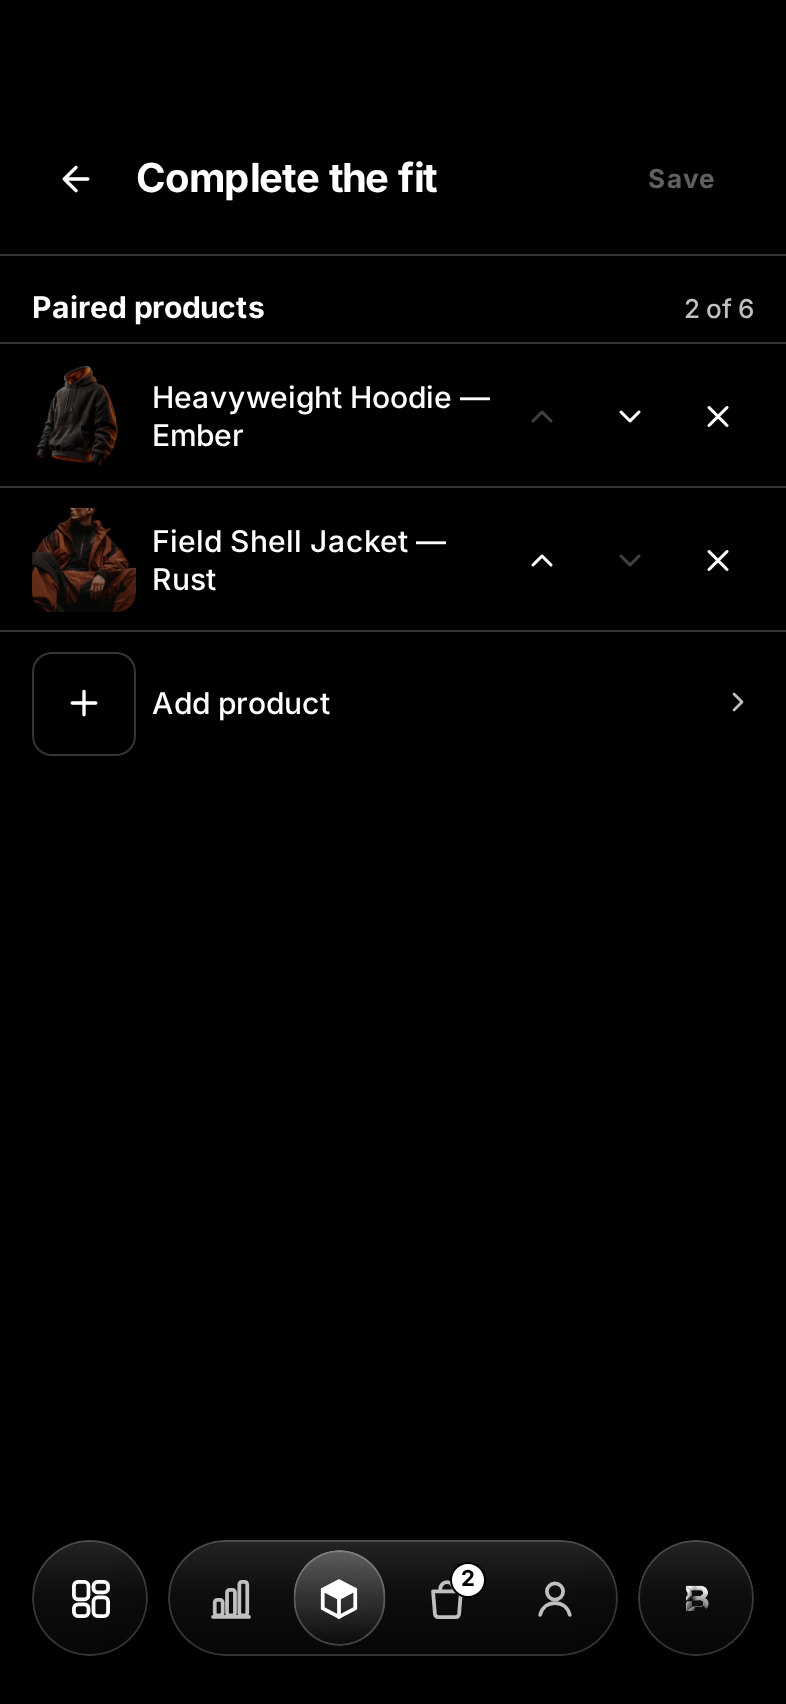
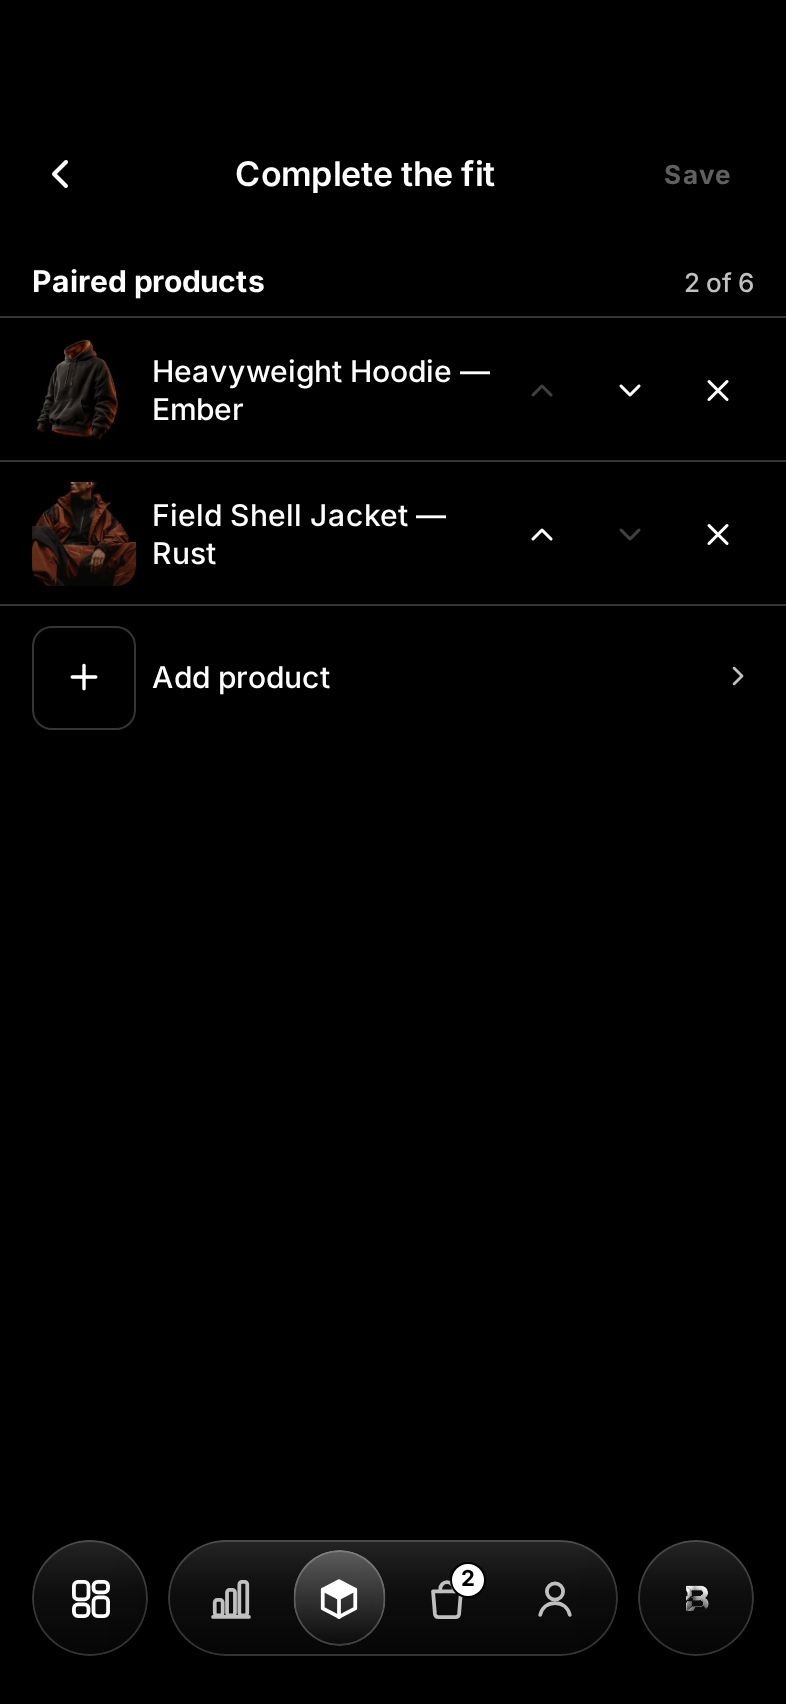
Product fit/video: Header without divider, text-fit pass, zoomed assets
Claude-Session: https://claude.ai/code/session_019HTAeM4TMxQ9d2Pj4HVNxF

diff --git a/artifacts/mobile/app/product-pairings.tsx b/artifacts/mobile/app/product-pairings.tsx
@@ -16,7 +16,7 @@ import { Feather } from '@expo/vector-icons';
 import * as Haptics from 'expo-haptics';
 import { CachedImage } from '@/components/CachedImage';
 import { PrimaryButton } from '@/components/BrandthreadUI';
-import { ScreenHeader } from '@/components/ScreenHeader';
+import { Header } from '@/components/layout';
 import { goBackOr } from '@/lib/navigation/goBackOr';
 import { useColors } from '@/hooks/useColors';
 import { useApi } from '@/lib/api';
@@ -138,10 +138,10 @@ export default function ProductPairingsScreen() {
   if (picking) {
     return (
       <View style={s.root}>
-        <ScreenHeader
+        <Header dividerVariant="none"
           title="Add products"
           onBack={() => setPicking(false)}
-          rightElement={<PrimaryButton label="Done" onPress={applyPicker} small style={{ minWidth: 72 }} />}
+          rightElement={<PrimaryButton label="Done" onPress={applyPicker} small style={{ minWidth: 72, paddingHorizontal: 16 }} />}
         />
         <View style={s.searchWrap}>
           <Feather name="search" size={16} color={colors.mutedForeground} />
@@ -170,7 +170,7 @@ export default function ProductPairingsScreen() {
                 accessibilityLabel={c.name}
               >
                 <Thumb uri={c.image} s={s} colors={colors} />
-                <Text style={s.name} numberOfLines={2}>{c.name}</Text>
+                <Text style={s.name}>{c.name}</Text>
                 <View style={[s.checkbox, checked && s.checkboxOn]}>
                   {checked ? <Feather name="check" size={14} color={colors.primaryForeground} /> : null}
                 </View>
@@ -187,10 +187,10 @@ export default function ProductPairingsScreen() {
 
   return (
     <View style={s.root}>
-      <ScreenHeader
+      <Header dividerVariant="none"
         title="Complete the fit"
         onBack={() => goBackOr(router)}
-        rightElement={<PrimaryButton label={saving ? 'Saving...' : 'Save'} onPress={save} loading={saving} disabled={!dirty} small style={{ minWidth: 72 }} />}
+        rightElement={<PrimaryButton label={saving ? 'Saving...' : 'Save'} onPress={save} loading={saving} disabled={!dirty} small style={{ minWidth: 72, paddingHorizontal: 16 }} />}
       />
       {loading ? (
         <View style={s.center}><ActivityIndicator color={colors.primary} /></View>
@@ -209,7 +209,7 @@ export default function ProductPairingsScreen() {
             <View key={p.id} style={s.row}>
               <Thumb uri={p.image} s={s} colors={colors} />
               <View style={{ flex: 1 }}>
-                <Text style={s.name} numberOfLines={2}>{p.name}</Text>
+                <Text style={s.name}>{p.name}</Text>
                 {!p.active ? <Text style={s.hidden}>Hidden from shoppers</Text> : null}
               </View>
               <IconBtn name="chevron-up" disabled={index === 0} onPress={() => move(index, -1)} label={`Move ${p.name} up`} colors={colors} s={s} />

diff --git a/artifacts/mobile/components/products/CompleteTheFit.tsx b/artifacts/mobile/components/products/CompleteTheFit.tsx
@@ -181,7 +181,7 @@ export function CompleteTheFit({ productId }: { productId: string }) {
                   <Feather name={added ? 'check' : 'plus'} size={16} color={added ? colors.primaryForeground : colors.foreground} />
                 </TouchableOpacity>
               ) : null}
-              <Text style={s.name} numberOfLines={1}>{item.name}</Text>
+              <Text style={s.name} numberOfLines={2}>{item.name}</Text>
               <Text style={s.price}>{item.product ? formatCents(item.priceCents) : 'Sold out'}</Text>
             </View>
           );
@@ -191,7 +191,7 @@ export function CompleteTheFit({ productId }: { productId: string }) {
 
       <BottomSheet visible={!!picking} onClose={() => setPicking(null)}>
         <View style={{ padding: SP.md }}>
-          <Text style={s.sheetTitle} numberOfLines={1}>{picking?.name}</Text>
+          <Text style={s.sheetTitle}>{picking?.name}</Text>
           {pickVariants.map((v) => (
             <TouchableOpacity
               key={v.id}
@@ -224,7 +224,7 @@ const makeStyles = (c: ReturnType<typeof useColors>) => StyleSheet.create({
     alignItems: 'center', justifyContent: 'center',
   },
   addBtnDone: { backgroundColor: c.primary, borderColor: c.primary },
-  name: { fontSize: FS.sm, fontFamily: FONT.semibold, color: c.foreground },
+  name: { fontSize: FS.sm, fontFamily: FONT.semibold, color: c.foreground, lineHeight: 18, minHeight: 36 },
   price: { fontSize: FS.sm, fontFamily: FONT.bold, color: c.foreground, marginTop: 2 },
   error: { fontSize: FS.sm, fontFamily: FONT.medium, color: c.mutedForeground, marginTop: SP.sm },
   sheetTitle: { fontSize: FS.lg, fontFamily: FONT.bold, color: c.foreground, marginBottom: SP.sm },

diff --git a/artifacts/mobile/app/product-video.tsx b/artifacts/mobile/app/product-video.tsx
@@ -15,7 +15,7 @@ import { Feather } from '@expo/vector-icons';
 import * as ImagePicker from 'expo-image-picker';
 import { useVideoPlayer, VideoView } from 'expo-video';
 import { CachedImage } from '@/components/CachedImage';
-import { ScreenHeader } from '@/components/ScreenHeader';
+import { Header } from '@/components/layout';
 import { formatVideoLength } from '@/components/products/ProductVideo';
 import { goBackOr } from '@/lib/navigation/goBackOr';
 import { useRouter } from 'expo-router';
@@ -130,7 +130,7 @@ export default function ProductVideoScreen() {
 
   return (
     <View style={s.root}>
-      <ScreenHeader title="Product video" onBack={() => goBackOr(router)} />
+      <Header dividerVariant="none" title="Product video" onBack={() => goBackOr(router)} />
       {loading ? (
         <View style={s.center}><ActivityIndicator color={colors.primary} /></View>
       ) : error ? (
